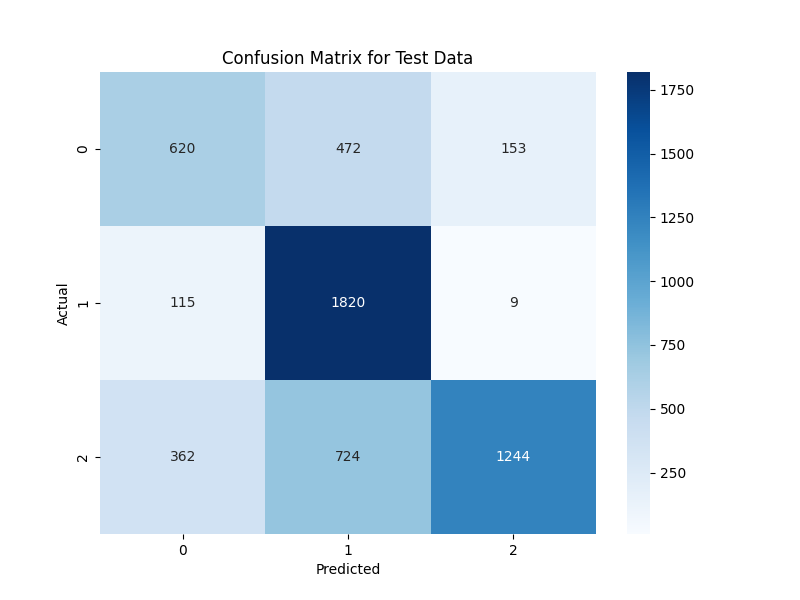
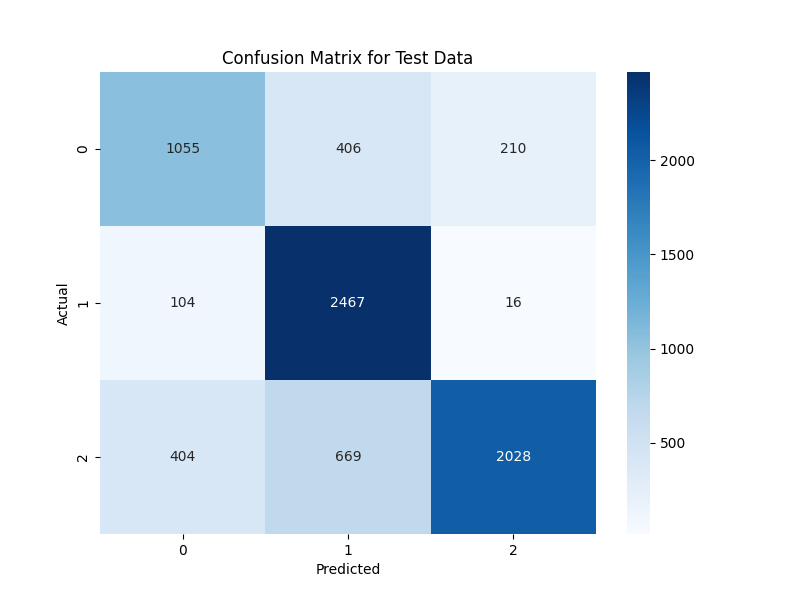
fixing registrastion of model

diff --git a/src/model/register_model.py b/src/model/register_model.py
@@ -6,6 +6,7 @@ import logging
 import os
 import dagshub
 from dotenv import load_dotenv
+import pickle
 
 # Load environment variables from .env file
 load_dotenv()
@@ -63,24 +64,41 @@ def load_model_info(file_path: str) -> dict:
 
 def register_model(model_name: str, model_info: dict):
     """Register the model to the MLflow Model Registry."""
-    try:
-        model_uri = f"runs:/{model_info['run_id']}/{model_info['model_path']}"
-        
-        # Register the model
-        model_version = mlflow.register_model(model_uri, model_name)
-        
-        # Transition the model to "Staging" stage
-        client = mlflow.tracking.MlflowClient()
-        client.transition_model_version_stage(
-            name=model_name,
-            version=model_version.version,
-            stage="Staging"
+    client = mlflow.tracking.MlflowClient()
+    model_path = model_info['model_path']+".pkl"
+    # Load the model from the local pickle file
+    with open(model_path, 'rb') as f:
+        model = pickle.load(f)
+    logger.debug('Model loaded from %s', model_info['model_path'])
+
+    # Set the correct experiment (avoid defaulting to experiment 0)
+    
+
+    # Log AND register inside the same run context
+    with mlflow.start_run(run_name="model_registration") as run:
+        model_info_mlflow = mlflow.sklearn.log_model(
+            sk_model=model,
+            artifact_path="model",        
+            registered_model_name=model_name  # ✅ register directly here
         )
-        
-        logger.debug(f'Model {model_name} version {model_version.version} registered and transitioned to Staging.')
-    except Exception as e:
-        logger.error('Error during model registration: %s', e)
-        raise
+        new_run_id = run.info.run_id
+        logger.debug('Model logged and registered in run %s', new_run_id)
+
+    # Transition to Staging
+    # Get the latest version just registered
+    versions = client.get_latest_versions(model_name, stages=["None"])
+    latest_version = versions[0].version
+
+    client.transition_model_version_stage(
+        name=model_name,
+        version=latest_version,
+        stage="Staging"
+    )
+    logger.debug(
+        'Model %s version %s transitioned to Staging.',
+        model_name, latest_version
+    )
+
 
 def main():
     try:
